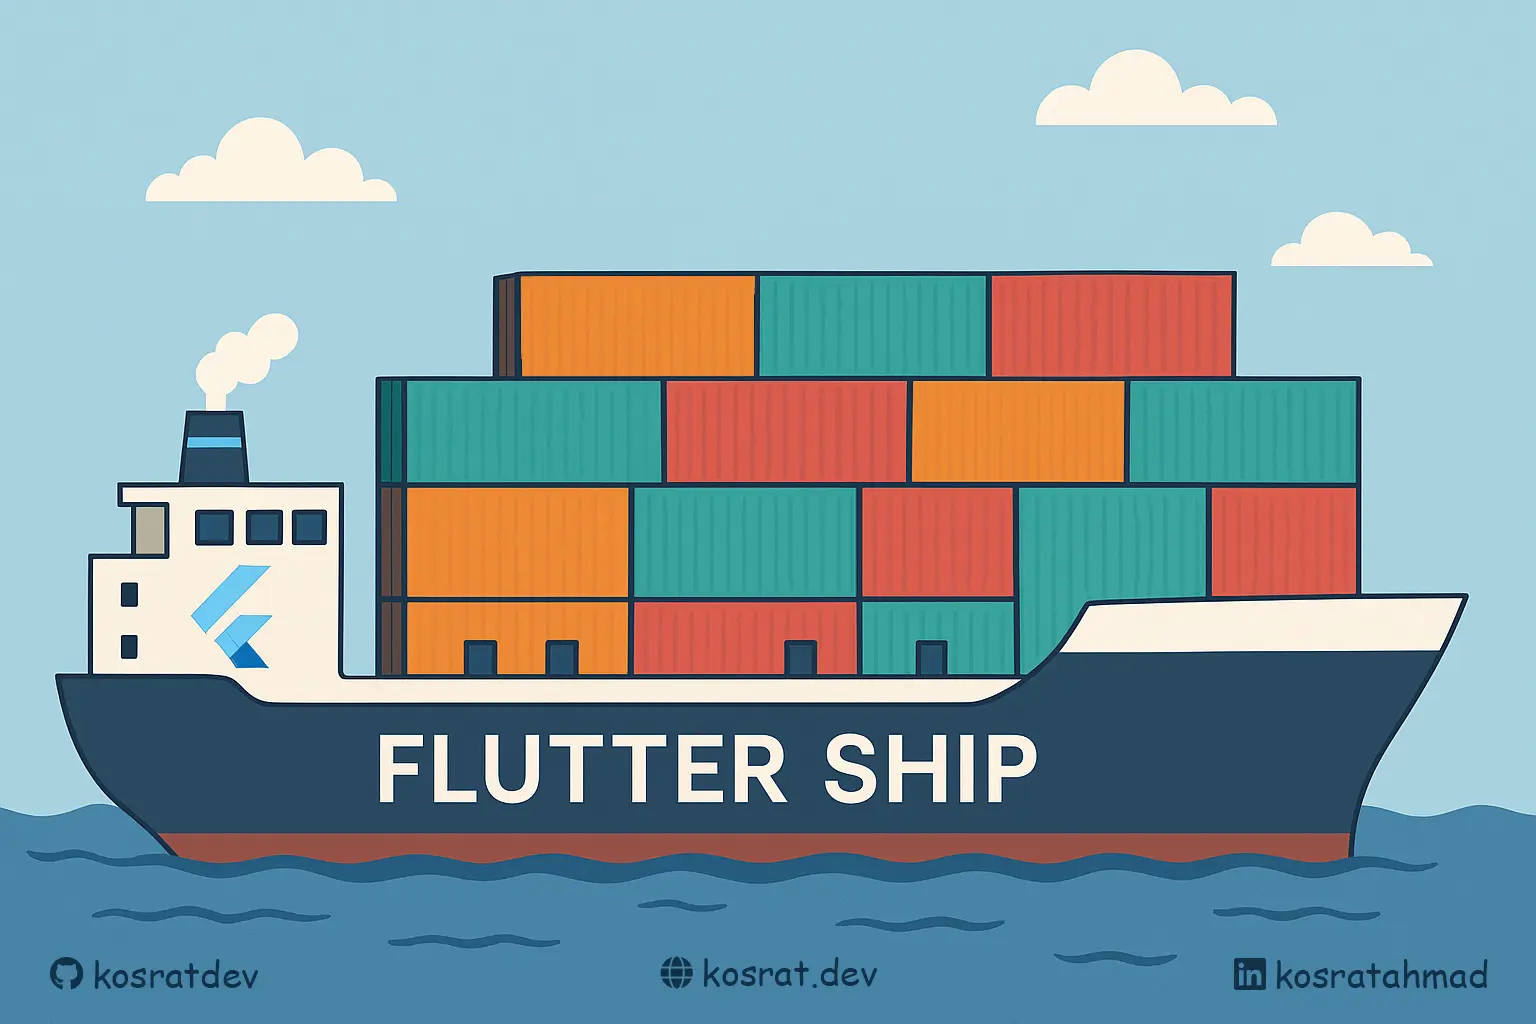
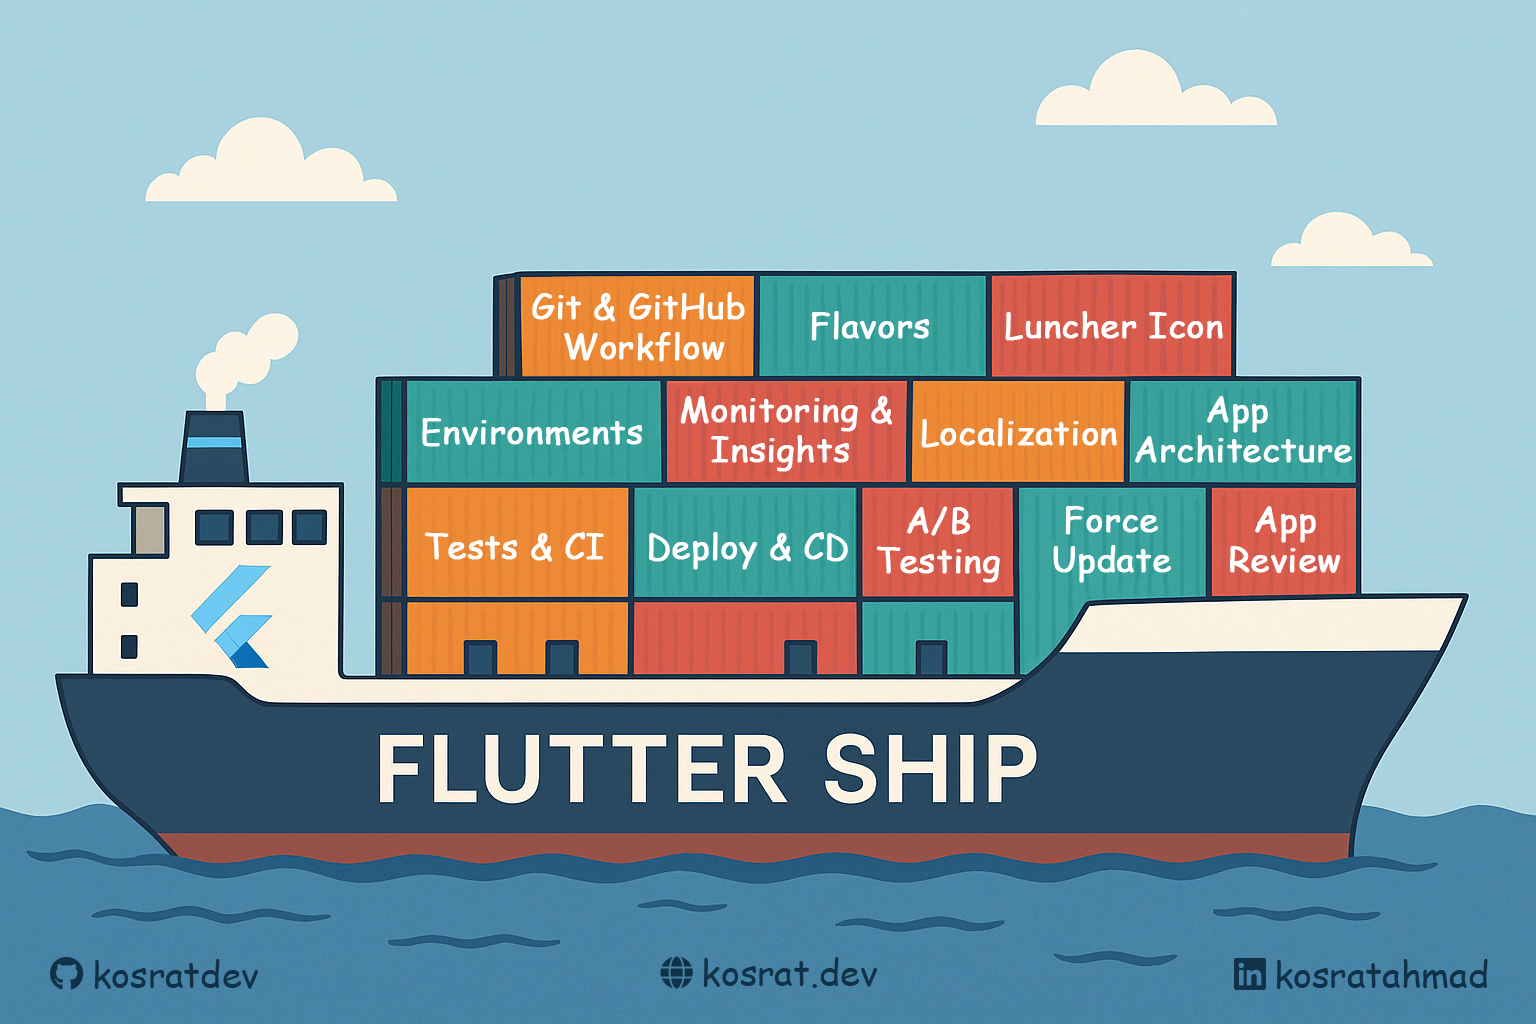
feat(courses): Add Git & GitHub workflow lessons and assets
Introduced multiple lessons covering Git & GitHub workflows, including branching strategies, commit message best practices, changelog maintenance, and Git hooks. Added relevant images and GIFs for enhanced understanding.

diff --git a/src/content/courses/flutter-ship/01-git-github-workflow/02-branch-strategy.md b/src/content/courses/flutter-ship/01-git-github-workflow/02-branch-strategy.md
@@ -1,0 +1,30 @@
+---
+type: "lesson"
+title: "Branch Strategy"
+order: 2
+published: 2025-09-03
+draft: true
+---
+
+A clear branching strategy is essential for any software project to prevent the chaos of direct commits to the `main` branch. Working directly on `main` can lead to frequent merge conflicts, broken builds, and lost code, especially in a team setting.
+
+The solution is to use short-lived branches for every new piece of work, whether it's a feature, bugfix, or chore. While there are many branching strategies, I recommend a strategy based on the popular and straightforward **[GitHub Flow](https://docs.github.com/en/get-started/using-github/github-flow)**. It's simple to understand, promotes continuous delivery, and works exceptionally well for most projects.
+
+The core idea is illustrated below:
+
+![Github Flow](../assets/github-flow.webp)
+
+**Branch Types Explained**
+
+- **Main Branch (`main`)**: This is the stable branch that always reflects the latest production-ready state of your project. All releases and deployments are made from here.
+- **Feature branches (`feature-*` or `task-id-*`)**: Used for developing new features, enhancements, bug fixings or tasks. If you use a task management tool (like Jira), you can integrate with it and name your branch after the task or ticket ID (e.g., `ab-123-add-login`). Each feature/task branch is short-lived and merged back into `main` via a pull request after review and testing.
+
+This model also supports different development environments with ease. When you complete a feature or task, you open a pull request (**PR**). You can configure a GitHub Action (or any other CI/CD service) to run tests and automate the generation of **APK**s for Android and **IPA**s for iOS, and distribute them to testers or users via your chosen platforms. I’ll cover _Flutter Continuous Delivery (CD)_ in detail in a future article.
+
+:::tip[Git & Github Cheat Sheet]
+I assume you already know the basics of Git and GitHub, so I won’t include basic Git commands here. If you need a refresher, check out my [Git & GitHub Cheatsheet](../../git-github-cheat-sheet/) article.
+:::
+
+:::important[Git Merge Recommendation]
+If you merge branches locally, `merge --no-ff` is highly recommended. The `--no-ff` flag causes the merge to always create a new commit object, even if the merge could be performed with a fast-forward. This avoids losing information about the historical existence of a feature branch and groups all commits that together added the feature.
+:::

diff --git a/src/content/courses/flutter-ship/01-git-github-workflow/01-overview.md b/src/content/courses/flutter-ship/01-git-github-workflow/01-overview.md
@@ -1,0 +1,21 @@
+---
+type: "lesson"
+title: "Overview"
+order: 1
+published: 2025-09-03
+draft: true
+---
+
+More than two decades ago, **Git** emerged as a version control system (**VCS**) to facilitate teamwork and track changes in a version history. Nowadays, Git is an essential tool for software developers, especially for those working in a team. Complementing Git, platforms like **GitHub** provide hosting for Git repositories, enabling collaboration and sharing.
+
+In this post, I will show you how to setup a **production-ready Git & GitHub workflow** for your project. As you may know, this article is a part of the [**Flutter Ship**](../) series, which guides you in shipping a production-ready Flutter app. However, these principles can be applied to **any language or framework**.
+
+By the end of this article, you will learn the following:
+
+1.  How to implement a simple but effective **branching strategy**.
+2.  How to adopt a **commit message standard** for a clean history and automated changelogs.
+3.  How to automatically generate and manage **project changelogs**.
+4.  How to use **Git hooks** to automate local checks, like formatting & linting files, linting commits, and running tests.
+5.  How to implement a **GitHub PR Checks** with **GitHub Actions** to automate your workflow.
+
+If this sounds like what you're looking for, let's dive in!
